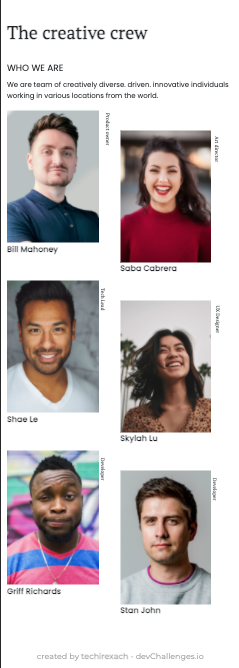
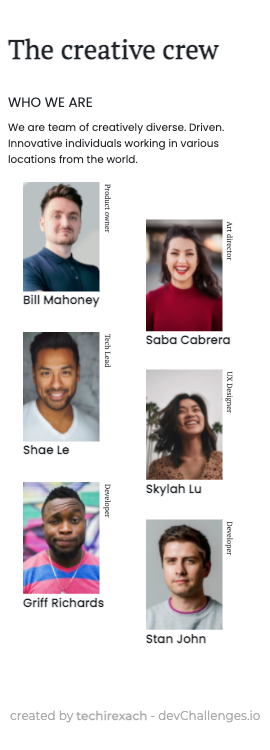
fourth commit

diff --git a/index.html b/index.html
@@ -19,44 +19,49 @@
   </head>
   <body>
     <div class="container-fluid main">
-      <div class="title">The creative crew</div>
-      <div class="we">WHO WE ARE</div>
-      <div class="text">We are team of creatively diverse.  driven.  innovative individuals working in various locations from the world.</div>
-        <div class="rowOne">
-          <div class="col colOne one">
-            <img src="./photo1.png" alt="Photo" class="impairphoto">
-            <div class="vertical text-nowrap">Product owner</div>
-          </div>
-          <div class="col colOne two">
-            <img src="./photo2.png" alt="Photo">
-            <div class="vertical text-nowrap">Art director</div>
-          </div>
-          <div class="fw-bold onetext">Bill Mahoney</div>
-          <div class="fw-bold">Saba Cabrera</div>
+      <div class="presentation">
+        <div class="title">The creative crew</div>
+        <div class="info">
+          <div class="we">WHO WE ARE</div>
+          <div class="text">We are team of creatively diverse.  Driven.  Innovative individuals working in various locations from the world.</div>
         </div>
-        <div class="rowOne">
-          <div class="col colOne one">
-            <img src="./photo3.png" alt="Photo" class="impairphoto">
-            <div class="vertical text-nowrap">Tech Lead</div>
-          </div>
-          <div class="col colOne two">
-            <img src="./photo4.png" alt="Photo">
-            <div class="vertical text-nowrap">UX Designer</div>
-          </div>
-          <div class="fw-bold onetext">Shae Le</div>
-          <div class="fw-bold">Skylah Lu</div>
-        </div>
-        <div class="rowOne">
-          <div class="col colOne one">
-            <img src="./photo5.png" alt="Photo" class="impairphoto">
-            <div class="vertical text-nowrap">Developer</div>
-          </div>
-          <div class="col colOne two">
-            <img src="./photo6.png" alt="Photo" >
-            <div class="vertical text-nowrap">Developer</div>
-          </div>
-          <div class="fw-bold onetext">Griff Richards</div>
-          <div class="fw-bold">Stan John</div>
+      </div>
+
+<div class="centro">
+  <div class="uno">
+    <img src="./photo1.png" alt="Photo">
+    <div class="fw-bold">Bill Mahoney</div>
+  </div>
+  <div class="text-start">Product owner</div>
+  <div class="pares">
+    <img src="./photo2.png" alt="Photo">
+    <div class="fw-bold">Saba Cabrera</div>
+  </div>
+  <div class="text-start pares">Art director</div>
+  <div class="tres">
+    <img src="./photo3.png" alt="Photo">
+    <div class="fw-bold">Shae Le</div>
+  </div>
+  <div class="text-start">Tech Lead</div>
+  <div class="pares">
+    <img src="./photo4.png" alt="Photo">
+    <div class="fw-bold">Skylah Lu</div>
+  </div>
+  <div class="text-start pares">UX Designer</div>
+  <div class="cinco">
+    <img src="./photo5.png" alt="Photo">
+    <div class="fw-bold">Griff Richards</div>
+  </div>
+  <div class="text-start">Developer</div>
+  <div class="pares">
+    <img src="./photo6.png" alt="Photo" >
+    <div class="fw-bold">Stan John</div>
+  </div>
+  <div class="text-start pares">Developer</div>
+
+</div>
+
+          
         </div>
       <div class="footer">created by <b>techirexach</b> - devChallenges.io</div>
     </div>

diff --git a/style.css b/style.css
@@ -20,38 +20,18 @@
     margin-bottom: 20px;
 }
 
-.rowOne{
-    display: grid;
-    grid-template-columns: 1fr 1fr;
-    margin-bottom: 40px;
-    height: 300px;
-}
-
-.colOne{
-     display: flex;
-}
-
-.one{
-    margin-bottom: 40px;
-    margin-right: 10px;
-}
-
-.onetext{
-    margin-top: -38px;
-}
-
-.two{
-    margin-top: 40px;
-}
-
-.vertical{
+.text-start{
+    font-size: 10px; 
     transform: rotate(90deg);
-    font-size: 10px;   
-    max-width: 200px;
-    max-height: 15px;
-    margin-top: 30px;
-    margin-left: -15px;
     font-family: 'PT Serif', serif;
+    width: 70px;
+    height: min-content;
+    margin-top: 30px;
+    margin-left: -60px;
+}
+
+.text-start.pares{
+    margin-top: 80px;
 }
 
 .name{
@@ -60,10 +40,7 @@
 
 img{
     width: 80%;
-}
-
-.impairphoto{
-    width: 85%;
+    vertical-align: middle;
 }
 
 .footer{
@@ -71,4 +48,88 @@ img{
     color: #A9A9A9;
     font-family: 'Montserrat', sans-serif;
     text-align: center;
+}
+
+.centro{
+    display: grid;
+    grid-template-columns: 40% 5% 40% 5% ;
+    grid-template-rows: 200px 200px 200px;
+    column-gap: 10px;
+    margin-left: 20px;
+}
+
+.pares{
+    margin-top: 50px;
+}
+
+@media screen and (min-width: 960px){
+
+    .presentation{
+        display: grid;
+        grid-template-columns: 1fr 1fr;
+        width: 50%;
+        margin: 100px auto;
+    }
+
+    .info{
+        width: 60%;
+    }
+  
+    .we{
+        margin-top: 30px;
+        font-size: 18px;
+        font-weight: bolder;
+    }
+    
+    .text{
+        margin-top: 10px;
+        font-size: 18px;
+        margin-bottom: 20px;
+    }
+    
+    .rowOne{
+        width: 60%;
+        margin: 0px auto 100px auto;
+    }
+    
+    .colOne{
+        width: 70%;
+    }
+    
+    .one{
+        
+        margin-bottom: 40px;
+        margin-right: 10px;
+    }
+    
+    .onetext{
+        margin-top: -38px;
+    }
+    
+    .two{
+        margin-top: 40px;
+    }
+    
+    .vertical{
+        font-size: 12px;     
+    }
+    
+    .name{
+        font-size: 14px;
+    }
+    
+    img{
+        width: 40%;
+    }
+    
+    .impairphoto{
+        width: 40%;
+    }
+    
+    .footer{
+        margin-top: 100px;
+        color: #A9A9A9;
+        font-family: 'Montserrat', sans-serif;
+        text-align: center;
+    }
 }
